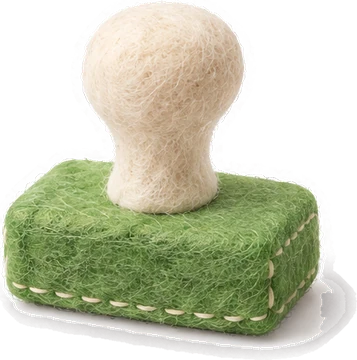
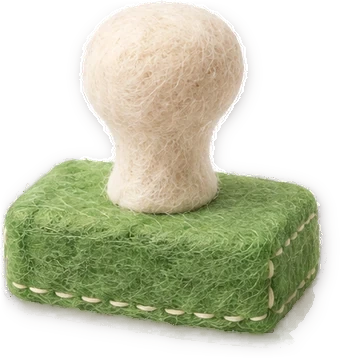
Finish the felt parts of three LAB games: result marks, unlit stars and the stamp's white plate
- Blank Slice: the result list marks each sentence with a photographed felt part (a check badge, a drop for
  one to look at again, an empty cream badge for one that was missed) instead of flat circles with ○ and ×,
  as Entry Check already does. The result heading, which takes focus only so that a screen reader reads it,
  no longer shows a black focus box after a round played with the keyboard.
- Blank Slice and Entry Check: a star not yet earned is the same felt star in the kit's cream wool instead
  of a greyed, half-transparent copy.
- Entry Check: the stamps lose the white plate that showed under their base on coloured backgrounds, and
  the sticker stamp on the entrance screen has no baked ground shadow, so its die-cut outline no longer
  turns into a white patch.
- The Teacher Is Back: on phones the opening sentence keeps the space a hidden line break stood for, and the
  bin's name sits on the bin's top edge, where neither the ribbon nor the teacher's feet meet it. Button
  rules that imitated felt with gradients, and that the photographed felt already replaced, are removed; the
  buttons look the same.
- Only these eleven files change. The shared learning bundle and every other file stay as published.
- Checked before pushing, on the live address with the candidate swapped in: the three games start on
  desktop and phone with no errors, failed requests or sideways overflow, and they read the records the
[…]

diff --git a/try/story-classroom/style.css b/try/story-classroom/style.css
@@ -35,10 +35,7 @@ h1,h2,h3,p{margin:0}
 .landing-description{font-size:17px;color:var(--muted);line-height:1.7}
 .landing-actions{display:flex;flex-wrap:wrap;gap:12px;margin-top:31px;align-items:center}
 .button-primary,.button-secondary{border-radius:17px;min-height:56px;padding:14px 24px;border:1px solid transparent;font-size:17px;font-weight:800;display:inline-flex;align-items:center;justify-content:center;gap:22px;letter-spacing:-.03em;transition:transform .18s,box-shadow .18s,background-color .18s}
-.button-primary{background-color:var(--coral-deep);background-image:linear-gradient(#ae322ae0,#ae322ae0),var(--felt);background-size:auto,240px;color:#fff;box-shadow:inset 0 -4px 0 #76201855,inset 0 1px 0 #ffffff33,0 5px 0 #74251f14}
 .button-primary svg,.button-secondary svg{width:22px;height:22px;fill:none;stroke:currentColor;stroke-width:1.8;stroke-linecap:round;stroke-linejoin:round}
-.button-primary:hover{transform:translateY(-2px);box-shadow:inset 0 -4px 0 #76201855,inset 0 1px 0 #ffffff33,0 7px 0 #74251f14}
-.button-primary:active{transform:translateY(2px);box-shadow:inset 0 3px 0 #76201855,0 2px 0 #74251f14}
 .button-secondary{background:linear-gradient(132deg,#fff,#f5f7fa);border-color:#cbd0d8;box-shadow:inset 1px 1px 0 #fff,0 3px 8px #18223609;color:var(--ink)}
 .button-secondary:hover{background:#fff;transform:translateY(-1px)}
 .reading-note{display:flex;align-items:center;gap:8px;margin-top:23px;color:var(--muted);font-size:12px;font-weight:500;letter-spacing:-.02em}
@@ -265,7 +262,7 @@ h1,h2,h3,p{margin:0}
 @media(min-width:1101px){.game{max-width:1180px;margin-inline:auto;padding-top:28px}.game-heading{margin-bottom:20px}.mission-copy p{font-size:17px;line-height:1.7}}
 @media(max-width:600px){.scene-column{display:contents}.scene-frame{grid-row:1}.mission-panel{grid-row:2}.dialogue{grid-row:3;margin-top:0}.game-layout{gap:19px}.missions,.missions ul,.missions ol{grid-template-columns:minmax(0,1fr);gap:10px}.mission,.missions>button,.missions li{padding:13px 15px;min-height:0;gap:11px;align-items:flex-start}.mission-copy p{font-size:18px;line-height:1.65;letter-spacing:-.03em}.mission-number,.mission-no{font-size:11px;min-width:19px;padding-top:6px}.mission-check{margin-top:6px;width:20px;height:20px;line-height:18px}.mission-copy small{font-size:11px;margin-top:3px}.mission-panel-heading{margin-bottom:11px}.mission-panel-heading h2{font-size:17px}.mission-footnote{margin:10px 3px 0}.game-layout:has(.stage:not([data-phase='play']):not([data-phase='review'])) .mission-panel{display:none}.scene-prop .scene-label,.scene-actor .scene-label{font-size:11px;line-height:1.3;padding:4px 7px}.scene-prop .scene-label{top:calc(100% - 12px)}.scene-actor .scene-label{margin-top:2px}.scene-target .scene-label{font-size:11px;line-height:1.3;padding:4px 7px}.scene-target[data-destination='drawer'] .scene-label{left:-29%;margin-top:0}}
 @media(max-width:600px){.game-layout:has(.stage:not([data-phase='play']):not([data-phase='review'])) .dialogue{grid-row:2}#cancel-selection{min-width:68px;font-size:11px;padding:8px 9px;border-radius:10px}}
-@media(max-width:600px){.scene-target[data-destination='drawer'] .scene-label{left:50%;top:0;margin-top:-1px;transform:translate(-50%,-100%)}}
+@media(max-width:600px){.scene-target[data-destination='drawer'] .scene-label,.scene-target[data-destination='bin'] .scene-label{left:50%;top:0;margin-top:-1px;transform:translate(-50%,-100%)}.scene-target[data-destination='bin'] .scene-label{transform:translate(-50%,-58%)}}
 @media(prefers-reduced-motion:reduce){html{scroll-behavior:auto}*,*::before,*::after{animation:none!important;transition:none!important}.scene-actor.walking>img,.scene-actor.walking .actor-body{transform:none}}
 
 /* Approved photographed felt UI. Reading passages keep a clean paper surface. */

diff --git a/try/blank-slice/style.css b/try/blank-slice/style.css
@@ -26,6 +26,7 @@ body{margin:0;background:var(--cream);color:var(--ink);font:500 16px/1.55 var(--
 img{display:block;max-width:100%}
 button{font:inherit;color:inherit;cursor:pointer}
 button:focus-visible,a:focus-visible{outline:3px solid var(--focus);outline-offset:3px;border-radius:10px}
+#r-title:focus,#check-title:focus{outline:none}
 [hidden]{display:none!important}
 .sr{position:absolute;width:1px;height:1px;overflow:hidden;clip:rect(0 0 0 0);white-space:nowrap}
 .kicker{font:500 11px/1.2 var(--mono);letter-spacing:.14em;text-transform:uppercase;color:var(--ink-2)}
@@ -153,8 +154,8 @@ button:focus-visible,a:focus-visible{outline:3px solid var(--focus);outline-offs
 .big span{font:500 26px/1 var(--mono);color:rgba(43,35,32,.8)}
 .big i{font-style:normal}
 .stars{display:flex;gap:4px;margin:8px 0 0}
-.stars i{width:34px;height:34px;background:url(assets/felt/sparkle.webp) center/contain no-repeat;filter:grayscale(1) opacity(.3)}
-.stars i.on{filter:none;animation:pop .3s var(--ease) both}
+.stars i{width:34px;height:34px;background:url(assets/felt/sparkle-off.webp) center/contain no-repeat}
+.stars i.on{background-image:url(assets/felt/sparkle.webp);animation:pop .3s var(--ease) both}
 .r-note{margin:10px 0 0;font-size:15px;color:rgba(43,35,32,.86)}
 .res-mongle{width:min(30vw,170px);height:auto;margin-bottom:-6px}
 .res-grid{position:relative;z-index:1;margin:-26px 0 0;padding:0 16px 40px;display:grid;gap:14px}
@@ -168,9 +169,7 @@ button:focus-visible,a:focus-visible{outline:3px solid var(--focus);outline-offs
 .log ol{list-style:none;margin:10px 0 0;padding:0;display:grid;gap:6px}
 .log li{display:grid;grid-template-columns:28px 1fr;gap:8px;align-items:start;padding:8px 0;border-top:1px solid var(--line)}
 .log li:first-child{border-top:0}
-.log .mark{display:grid;place-items:center;width:26px;height:26px;border-radius:50%;font:800 14px/1 var(--sans);background:var(--cream)}
-.log li.ok .mark{background:#e6f2dc;color:var(--meadow-deep)}
-.log li.ko .mark{background:var(--coral-wash);color:var(--coral-deep)}
+.log .mark{display:block;width:28px;height:28px;object-fit:contain}
 .log .sent{display:block;font:700 15px/1.45 var(--sans)}
 .log .sent b{padding:0 .15em;border-radius:5px;background:var(--marker)}
 .log small{display:block;font-size:12.5px;color:var(--muted)}

diff --git a/try/entry-check/style.css b/try/entry-check/style.css
@@ -98,8 +98,8 @@ button:focus-visible,a:focus-visible{outline:3px solid var(--focus);outline-offs
 .venue strong{font:800 16px/1.25 var(--sans);letter-spacing:-.01em}
 .venue small{font-size:12.5px;line-height:1.45;color:var(--muted)}
 .venue .stars{display:flex;gap:2px;margin-top:2px}
-.venue .stars i{width:18px;height:18px;background:url(assets/felt/sparkle.webp) center/contain no-repeat;filter:grayscale(1) opacity(.28)}
-.venue .stars i.on{filter:none}
+.venue .stars i{width:18px;height:18px;background:url(assets/felt/sparkle-off.webp) center/contain no-repeat}
+.venue .stars i.on{background-image:url(assets/felt/sparkle.webp)}
 .venue.locked{cursor:default}
 .venue.locked .thumb img{filter:grayscale(.7) brightness(1.05) opacity(.65)}
 .venue.locked .lock{position:absolute;inset:auto 10px 10px auto;padding:4px 10px 5px;border-radius:999px;background:rgba(255,253,248,.92);font:700 11.5px/1.2 var(--sans);color:var(--ink-2)}
@@ -315,8 +315,8 @@ button:focus-visible,a:focus-visible{outline:3px solid var(--focus);outline-offs
 .big span{font:500 26px/1 var(--mono);color:rgba(43,35,32,.8)}
 .big i{font-style:normal}
 .stars{display:flex;gap:4px;margin:8px 0 0}
-.stars i{width:36px;height:36px;background:url(assets/felt/sparkle.webp) center/contain no-repeat;filter:grayscale(1) opacity(.3)}
-.stars i.on{filter:none;animation:pop .3s var(--ease) both}
+.stars i{width:36px;height:36px;background:url(assets/felt/sparkle-off.webp) center/contain no-repeat}
+.stars i.on{background-image:url(assets/felt/sparkle.webp);animation:pop .3s var(--ease) both}
 .stars i.on:nth-child(2){animation-delay:.08s}.stars i.on:nth-child(3){animation-delay:.16s}
 .r-note{margin:10px 0 0;font-size:14.5px;line-height:1.55;color:rgba(43,35,32,.86);max-width:30em}
 .r-help:not([hidden]){display:flex;flex-wrap:wrap;align-items:center;gap:8px;margin:12px 0 0;font-size:14px;line-height:1.5;color:rgba(43,35,32,.86);max-width:32em}

diff --git a/try/blank-slice/app.js b/try/blank-slice/app.js
@@ -462,7 +462,7 @@ function finish() {
     const item = ITEMS.find((x) => x.id === r.itemId);
     const li = el('li', r.correct === true ? 'ok' : r.correct === false ? 'ko' : 'miss');
     const mark = r.correct === true ? '맞음' : r.correct === false ? '다시 볼 것' : '놓침';
-    li.innerHTML = `<span class="mark" aria-label="${mark}">${r.correct === true ? '○' : r.correct === false ? '×' : '–'}</span>
+    li.innerHTML = `<img class="mark" src="${r.correct === true ? 'assets/kit/badge-check.webp' : r.correct === false ? 'assets/felt/drop.webp' : 'assets/kit/badge-cream.webp'}" alt="${mark}">
       <span class="body"><span class="sent">${esc(filled(item, '\u0000')).replace('\u0000', `<b>${esc(item.answer)}</b>`)}</span>
       <small>${esc(KIND_LABEL[item.kind] || '')}${r.correct === false ? ` · 벤 말 ‘${esc(r.choice)}’` : ''}${r.correct === null ? ` · 놓침 · 멈춘 보기에서 고른 답 ‘${esc(r.readingChoice)}’ ${r.readingCorrect ? '맞음' : '다시 볼 것'}` : ''}</small></span>`;
     log.append(li);
@@ -547,6 +547,7 @@ renderLobby();
 // 시험·확인용 읽기 전용 관찰(?qa)
 if (QA) {
   window.__slice = {
+    flow: () => state.flow ? { settings: state.flow.settings(), intro: state.flow.intro() } : null,
     state: () => ({ index: state.index, queue: state.queue.map((x) => x.id), results: state.results.map((r) => ({ ...r })), combo: state.combo, score: state.score,
       cur: state.cur && { id: state.cur.item.id, answer: state.cur.item.answer, options: [...state.cur.options], tosses: state.cur.tosses, done: state.cur.done, confirmed: state.cur.confirmed },
       practice: state.practice && { options: [...state.practice.options], tries: state.practice.tries } }),

diff --git a/try/story-classroom/index.html b/try/story-classroom/index.html
@@ -29,7 +29,7 @@
           <p class="eyebrow"><span class="chapter-dot"></span> 교실에서 생긴 일</p>
           <h1 id="landing-title">선생님이<br><span class="title-mark">돌아왔다<svg viewBox="0 0 360 20" aria-hidden="true"><path d="M4 12 C70 5 119 15 175 10 S284 6 354 10 M23 18 C90 12 179 17 286 15"/></svg></span></h1>
           <p class="landing-hook">문이 열렸다.<br class="mobile-break"> 아직 파티는 비밀이다.</p>
-          <p class="landing-description">이야기를 읽고, 두 친구와<br>교실의 비밀을 지켜 주세요.</p>
+          <p class="landing-description">이야기를 읽고, 두 친구와 <br>교실의 비밀을 지켜 주세요.</p>
           <div class="landing-actions">
             <button id="start" class="button-primary" type="button">이야기 시작 <svg viewBox="0 0 24 24" aria-hidden="true"><path d="M4 12h15m-6-6 6 6-6 6"/></svg></button>
             <button id="resume" class="button-secondary" type="button" hidden>이어 하기</button>

diff --git a/try/entry-check/index.html b/try/entry-check/index.html
@@ -51,7 +51,7 @@
     </div>
     <figure class="hero-art" aria-hidden="true">
       <div class="arch"><img src="assets/scenes/pool-m.webp" alt=""><img class="arch-guest" src="assets/cast/bear.webp" alt=""></div>
-      <img class="hero-stamp diecut" src="assets/felt/stamp-pass.webp" alt="">
+      <img class="hero-stamp diecut" src="assets/felt/stamp-pass-sticker.webp" alt="">
       <img class="hero-mongle diecut" src="assets/brand/mongle-body.webp" alt="">
     </figure>
   </section>
